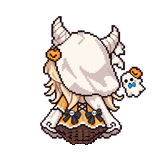
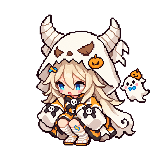
수정함

diff --git a/src/main.js b/src/main.js
@@ -14,7 +14,7 @@ const BACKGROUND_ASSET_BASE = ASSET_BASE
 const UI_ICON_ASSET_BASE = `${ASSET_BASE}/ui`
 
 const EQUIPMENT_ASSET_VERSION = '3'
-const CHARACTER_ASSET_VERSION = '6'
+const CHARACTER_ASSET_VERSION = '7'
 const BACKGROUND_ASSET_VERSION = '5'
 const UI_ICON_ASSET_VERSION = '4'
 const ENDING_BOOK_ASSET_VERSION = '1'
@@ -154,8 +154,14 @@ class MainScene extends Phaser.Scene {
       const hiddenUrl =
         `${CHARACTER_ASSET_BASE}/${hiddenKey}.png?v=${CHARACTER_ASSET_VERSION}`
 
+      // 작업 중 보여줄 160x160 뒷모습 단일 PNG
+      const workKey = `${name}_work`
+      const workUrl =
+        `${CHARACTER_ASSET_BASE}/${workKey}.png?v=${CHARACTER_ASSET_VERSION}`
+
       this.load.image(idleKey, idleUrl)
       this.load.image(hiddenKey, hiddenUrl)
+      this.load.image(workKey, workUrl)
     })
 
     // 히든 캐릭터 전용 에셋
@@ -1483,6 +1489,136 @@ class MainScene extends Phaser.Scene {
       }
     }
 
+
+    // =====================================================
+    // 캐릭터 작업 자세
+    // *_work.png = 160x160 단일 뒷모습 PNG
+    //
+    // 순간이동으로 행동 슬롯에 도착한 뒤
+    // idle -> 짧은 페이드 -> work 뒷모습 -> 작업 연출 -> idle 복귀
+    // 순서로 보여준다.
+    // =====================================================
+    function setCharacterWorkPose(character, equipment, onComplete) {
+      if (!character?.characterSprite || hiddenEndingVisualLocked) {
+        onComplete?.(false)
+        return
+      }
+
+      const sprite = character.characterSprite
+      const workTextureKey = `${character.key}_work`
+      const workTexture = scene.textures.get(workTextureKey)
+
+      // work 이미지가 누락돼도 게임 진행은 유지한다.
+      if (!workTexture || workTexture.key === '__MISSING') {
+        console.warn(
+          `[GROW CAMP] 작업 캐릭터 텍스처 없음: ${workTextureKey}`
+        )
+        onComplete?.(false)
+        return
+      }
+
+      scene.tweens.killTweensOf(sprite)
+
+      // 앞모습 idle이 자연스럽게 사라진 뒤 뒷모습으로 교체.
+      scene.tweens.add({
+        targets: sprite,
+        alpha: 0.15,
+        scaleX: sprite.scaleX * 0.96,
+        scaleY: sprite.scaleY * 0.96,
+        duration: 90,
+        ease: 'Sine.In',
+        onComplete: () => {
+          sprite.stop()
+          sprite.setTexture(workTextureKey)
+
+          // 기존 캐릭터와 동일하게 "발 위치" 기준으로 정렬.
+          sprite.setOrigin(0.5, 0.88)
+          sprite.setPosition(0, 12)
+          sprite.setAngle(0)
+          sprite.setTint(CHARACTER_SCENE_TINT)
+
+          if (sprite.height > 0) {
+            const scale = CHARACTER_DISPLAY_HEIGHT / sprite.height
+            sprite.setScale(scale)
+          }
+
+          // 작업 이미지의 좌우 비대칭 소품이 장비 쪽을 향하도록 미러링.
+          if (equipment?.container) {
+            sprite.setFlipX(equipment.container.x < character.container.x)
+          } else {
+            sprite.setFlipX(false)
+          }
+
+          sprite.setAlpha(0.15)
+
+          scene.tweens.add({
+            targets: sprite,
+            alpha: 1,
+            duration: 100,
+            ease: 'Sine.Out',
+            onComplete: () => onComplete?.(true)
+          })
+        }
+      })
+    }
+
+    function playCharacterWorkMotion(character, onComplete) {
+      if (!character?.characterSprite) {
+        onComplete?.()
+        return
+      }
+
+      const sprite = character.characterSprite
+
+      // 정적인 뒷모습 1장에 아주 작은 상하/회전 Tween만 넣어
+      // 실제로 손을 쓰며 작업하는 것처럼 보이게 한다.
+      scene.tweens.add({
+        targets: sprite,
+        y: 8,
+        angle: sprite.flipX ? 1.5 : -1.5,
+        duration: 150,
+        yoyo: true,
+        repeat: 2,
+        ease: 'Sine.InOut',
+        onComplete: () => {
+          sprite.setY(12)
+          sprite.setAngle(0)
+          onComplete?.()
+        }
+      })
+    }
+
+    function restoreCharacterIdleFromWork(character, onComplete) {
+      if (!character?.characterSprite || hiddenEndingVisualLocked) {
+        onComplete?.()
+        return
+      }
+
+      const sprite = character.characterSprite
+      scene.tweens.killTweensOf(sprite)
+
+      scene.tweens.add({
+        targets: sprite,
+        alpha: 0.15,
+        duration: 90,
+        ease: 'Sine.In',
+        onComplete: () => {
+          sprite.setAngle(0)
+          sprite.setY(12)
+          playCharacterIdle(character)
+          sprite.setAlpha(0.15)
+
+          scene.tweens.add({
+            targets: sprite,
+            alpha: 1,
+            duration: 110,
+            ease: 'Sine.Out',
+            onComplete: () => onComplete?.()
+          })
+        }
+      })
+    }
+
     function showHiddenEndingCharacter(character) {
       if (!character.characterSprite) return
 
@@ -2087,25 +2223,24 @@ class MainScene extends Phaser.Scene {
 
       character.statusText.setText(actionName)
 
-      // 임시 Action 애니메이션: 살짝 위아래로 움직임
-      scene.tweens.add({
-        targets: character.container,
-        y: character.container.y - 8,
-        duration: 170,
-        yoyo: true,
-        repeat: 2,
-        ease: 'Sine.InOut',
-        onComplete: () => {
+      // 행동 슬롯에 도착한 뒤 앞모습 idle에서 작업용 뒷모습으로 전환.
+      setCharacterWorkPose(character, equipment, () => {
+        playCharacterWorkMotion(character, () => {
+          // 실제 변화는 작업 모션의 끝에서 발생시켜
+          // '캐릭터가 만짐 -> 오브젝트가 반응함' 순서가 읽히게 한다.
           pulseEquipment(equipment)
           showInteractionEffect(equipment, interaction)
           spawnCharacterInteractionParticles(character, equipment)
 
-          scene.time.delayedCall(300, () => {
-            showCharacterReaction(character)
-            character.statusText.setText('ACTIVE')
-            onComplete()
+          scene.time.delayedCall(260, () => {
+            // 작업이 끝나면 다시 앞모습 idle로 돌아온 뒤 ! 반응.
+            restoreCharacterIdleFromWork(character, () => {
+              showCharacterReaction(character)
+              character.statusText.setText('ACTIVE')
+              onComplete()
+            })
           })
-        }
+        })
       })
     }
 
@@ -4122,7 +4257,7 @@ class MainScene extends Phaser.Scene {
     syncBackgroundToTurn(false)
 
     getCharacters().forEach(character => setCharacterIdle(character))
-    console.log('GROW CAMP MOVE: teleport + 4 interaction slots per equipment')
+    console.log('GROW CAMP MOVE: teleport + back-view work interaction')
   }
 }
 
